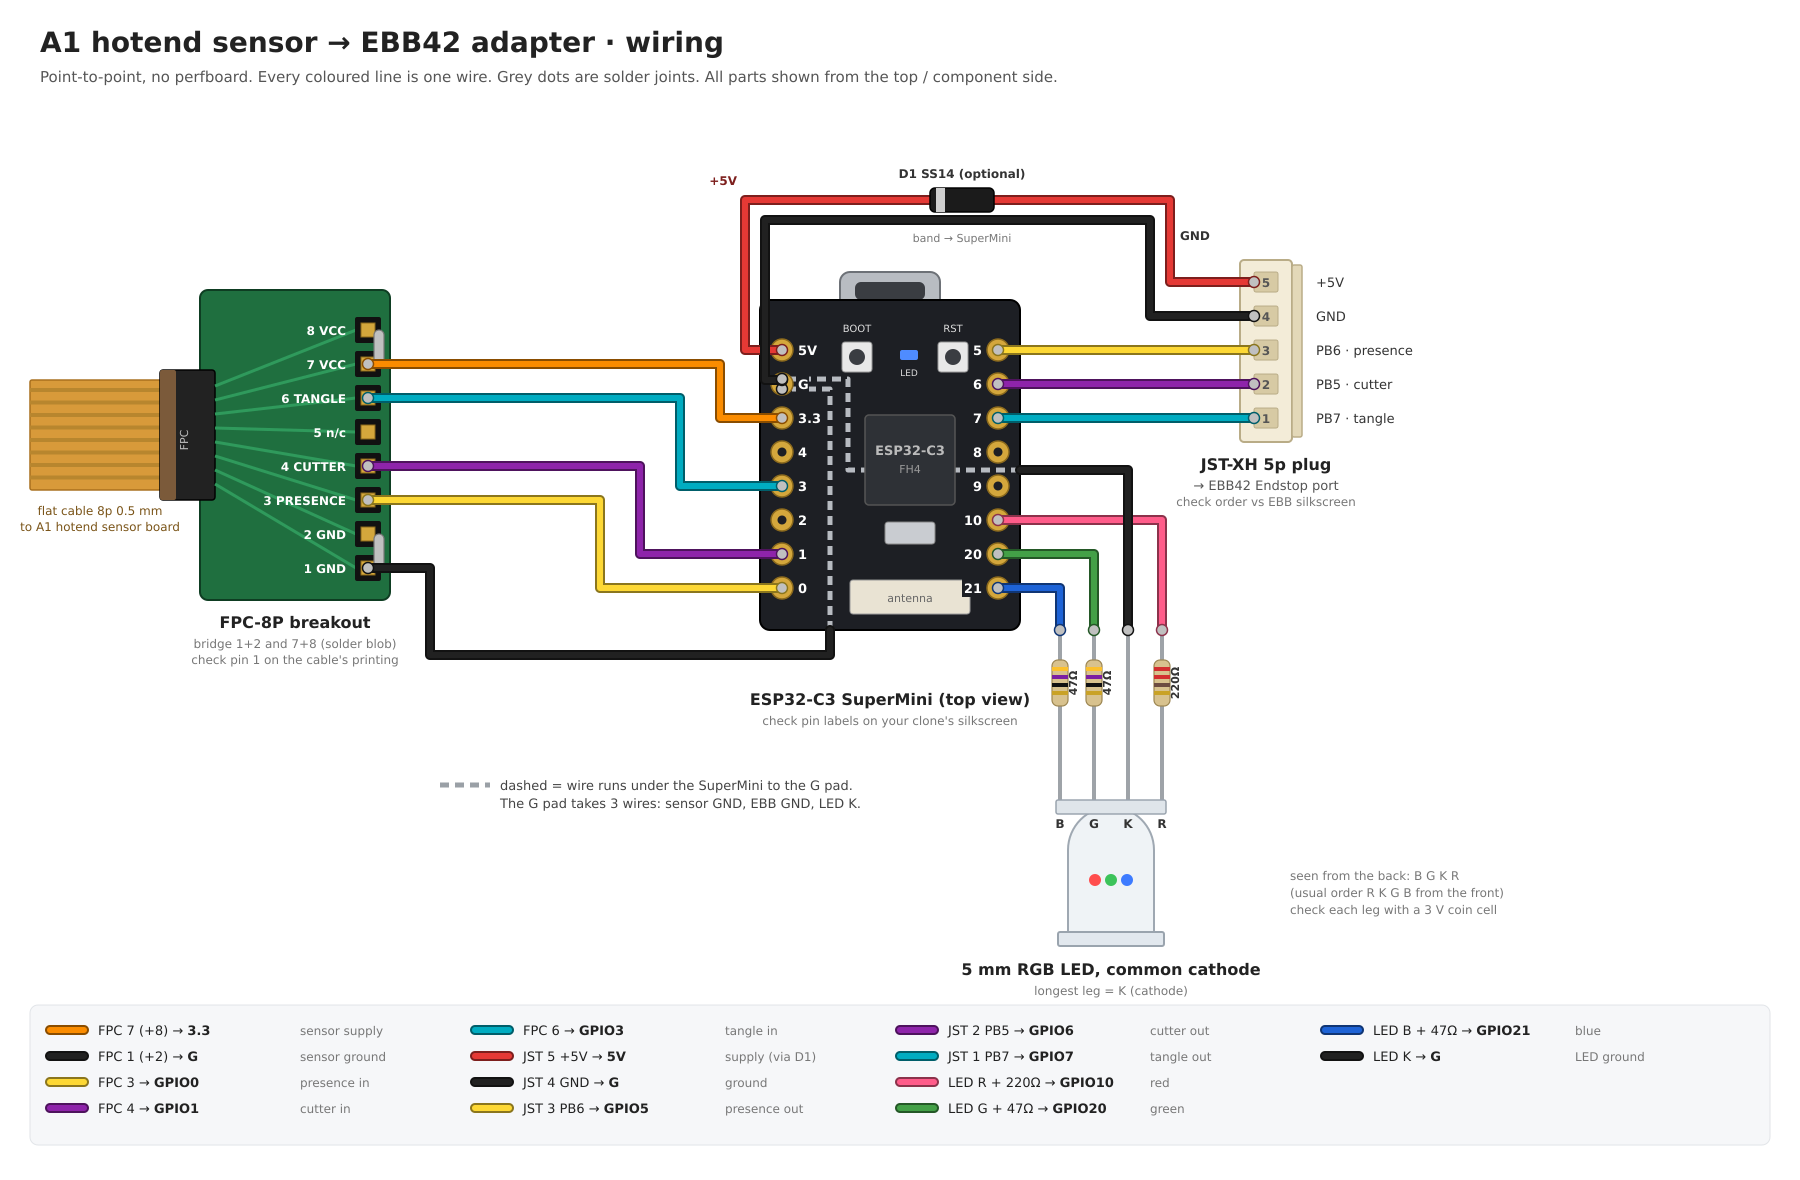
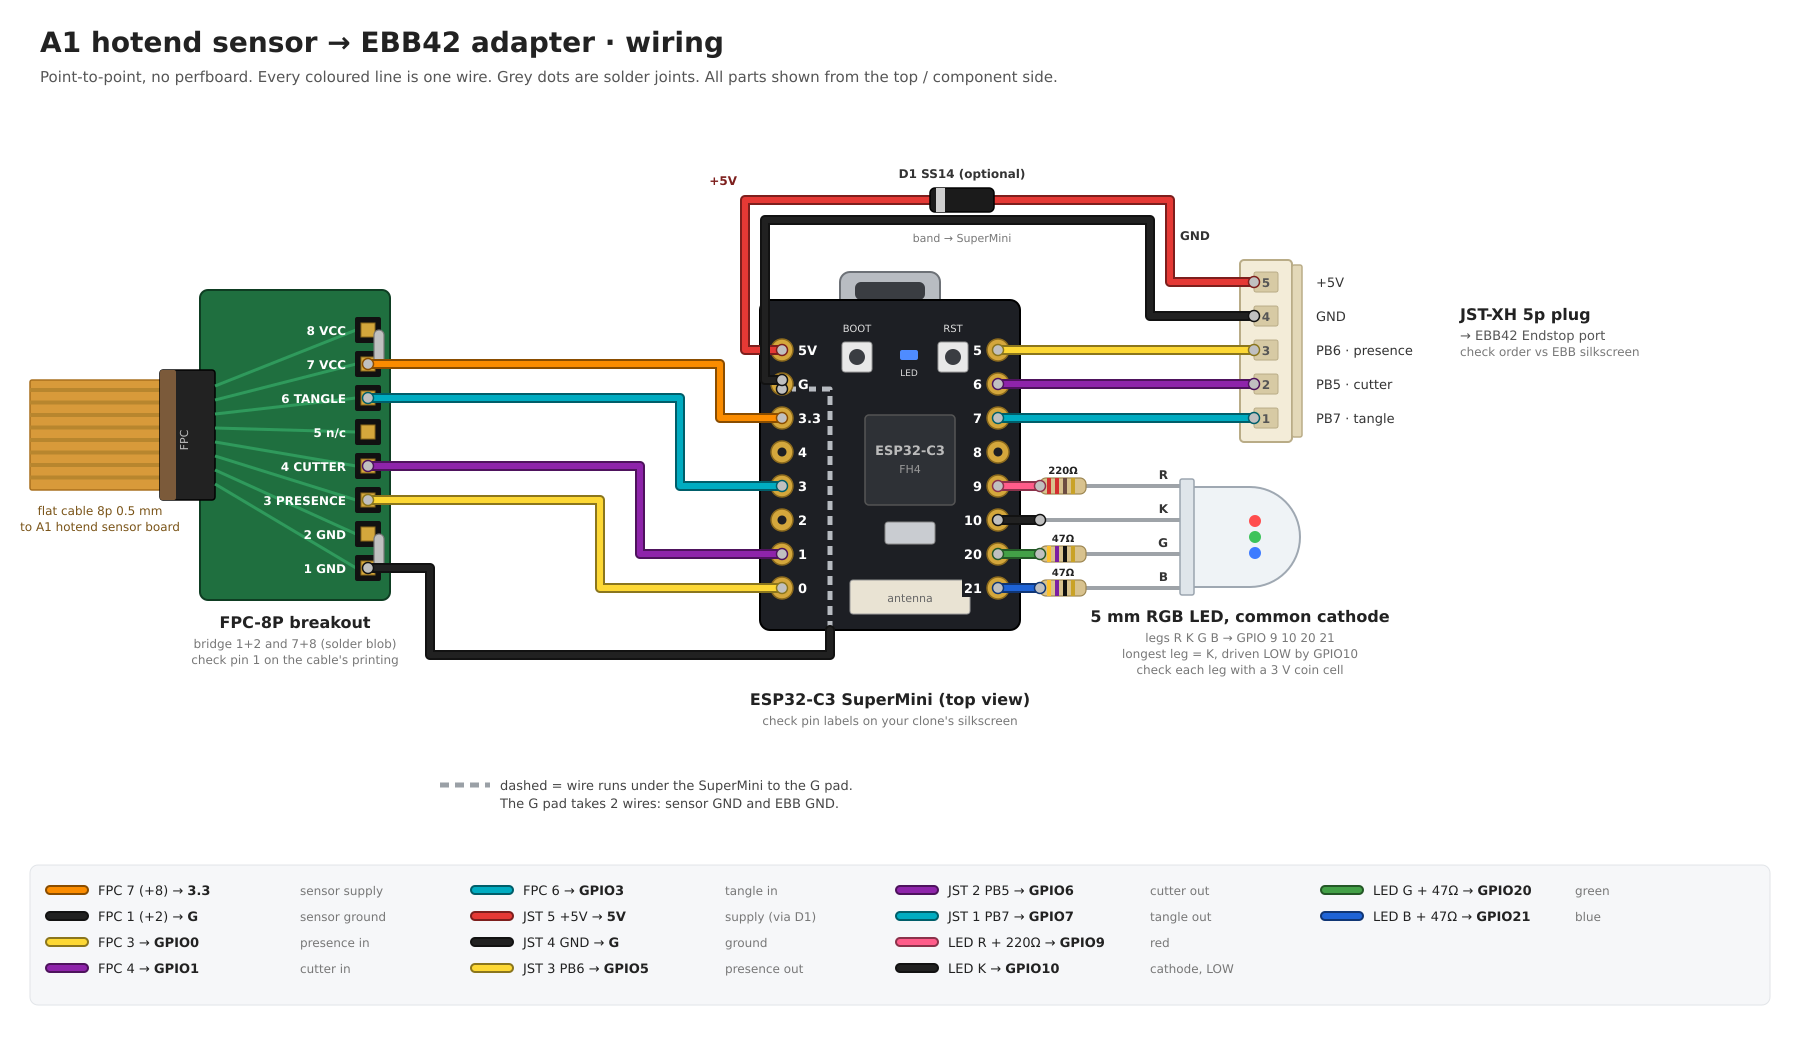
Move status LED to GPIO9/10 so it mounts directly on the header
The RGB LED legs R K G B now line up with GPIO9, GPIO10, GPIO20, GPIO21,
so the LED can sit against the SuperMini with only series resistors.

- GPIO10 is the common cathode, driven LOW after boot at full drive
  strength (it sinks all three colours).
- Red moves to GPIO9 (BOOT strapping pin). Boot is unaffected because
  the cathode floats at reset; drive is limited to ~10 mA so pressing
  BOOT while red is lit is harmless.
- Wiring diagram and adapter README updated; the G pad now takes only
  sensor GND and EBB GND.

diff --git a/adapter/docs/make_wiring.py b/adapter/docs/make_wiring.py
@@ -4,7 +4,7 @@
 """
 from pathlib import Path
 
-W, H = 1800, 1180
+W, H = 1800, 1040
 out = []
 add = out.append
 FONT = "DejaVu Sans, Arial, sans-serif"
@@ -169,47 +169,43 @@ for p, y in jst_y.items():
 jst_lbl = {5: "+5V", 4: "GND", 3: "PB6 · presence", 2: "PB5 · cutter", 1: "PB7 · tangle"}
 for p, y in jst_y.items():
     text(JX + 76, y + 5, jst_lbl[p], 13, "#333")
-text(JX + 26, 470, "JST-XH 5p plug", 16, anchor="middle", weight="bold")
-text(JX + 26, 490, "→ EBB42 Endstop port", 13, "#555", "middle")
-text(JX + 26, 506, "check order vs EBB silkscreen", 12, "#777", "middle")
+text(JX + 220, 320, "JST-XH 5p plug", 16, weight="bold")
+text(JX + 220, 340, "→ EBB42 Endstop port", 13, "#555")
+text(JX + 220, 356, "check order vs EBB silkscreen", 12, "#777")
 
 # ------------------------------------------------- RGB LED + resistors ------
-# legs point up; seen from the flat side so the order left->right is B G K R
-LEDX = {"B": 1060, "G": 1094, "K": 1128, "R": 1162}
-LEG_TOP, LEG_BOT = 630, 800
-for k, x in LEDX.items():
-    top = LEG_TOP
-    add(f'<line x1="{x}" y1="{top}" x2="{x}" y2="{LEG_BOT}" stroke="#9ea3a8" stroke-width="4"/>')
-# body
-add(f'<path d="M 1068 940 L 1068 850 A 43 43 0 0 1 1154 850 L 1154 940 Z" '
+# The LED sits right against the SuperMini's right header, legs pointing left:
+# R K G B (top to bottom) land on GPIO9, GPIO10, GPIO20, GPIO21.
+LED_ROWS = {"R": 4, "K": 5, "G": 6, "B": 7}
+FLANGE_X = 1180
+RES_X = 1040                                   # resistor body start
+LED_CY = (row(4) + row(7)) / 2
+for k, i in LED_ROWS.items():
+    y = row(i)
+    add(f'<line x1="{RES_X}" y1="{y}" x2="{FLANGE_X}" y2="{y}" stroke="#9ea3a8" stroke-width="4"/>')
+    text(FLANGE_X - 12, y - 7, k, 12, "#333", "end", "bold")
+# body (side view, dome to the right)
+add(f'<path d="M {FLANGE_X + 10} {LED_CY - 50} L {FLANGE_X + 70} {LED_CY - 50} '
+    f'A 50 50 0 0 1 {FLANGE_X + 70} {LED_CY + 50} L {FLANGE_X + 10} {LED_CY + 50} Z" '
     f'fill="#eef2f6" stroke="#9aa4ae" stroke-width="2" opacity="0.95"/>')
-rect(1058, 932, 106, 14, "#e2e8ee", "#9aa4ae", 2, rx=2)
-rect(1056, 800, 110, 14, "#dfe5ea", "#9aa4ae", 1.5, rx=2)
-for c, cx in (("#ff4d4d", 1095), ("#3cc35a", 1111), ("#3d7bff", 1127)):
-    circle(cx, 880, 6, c)
-text(1111, 975, "5 mm RGB LED, common cathode", 16, anchor="middle", weight="bold")
-text(1111, 995, "longest leg = K (cathode)", 12, "#777", "middle")
-text(1290, 880, "seen from the back: B G K R", 12, "#777")
-text(1290, 897, "(usual order R K G B from the front)", 12, "#777")
-text(1290, 914, "check each leg with a 3 V coin cell", 12, "#777")
-for k, x in LEDX.items():
-    text(x, 828 if k != "K" else 828, k, 12, "#333", "middle", "bold")
+rect(FLANGE_X, LED_CY - 58, 14, 116, "#dfe5ea", "#9aa4ae", 1.5, rx=2)
+for c, dy in (("#ff4d4d", -16), ("#3cc35a", 0), ("#3d7bff", 16)):
+    circle(FLANGE_X + 75, LED_CY + dy, 6, c)
+text(FLANGE_X + 60, LED_CY + 85, "5 mm RGB LED, common cathode", 16, anchor="middle", weight="bold")
+text(FLANGE_X + 60, LED_CY + 105, "legs R K G B → GPIO 9 10 20 21", 12, "#777", "middle")
+text(FLANGE_X + 60, LED_CY + 121, "longest leg = K, driven LOW by GPIO10", 12, "#777", "middle")
+text(FLANGE_X + 60, LED_CY + 137, "check each leg with a 3 V coin cell", 12, "#777", "middle")
 
 
-def resistor(x, y_top, bands, label):
-    rect(x - 8, y_top, 16, 46, "#d8c28e", "#9c8550", 1.2, rx=6)
+def resistor_h(x, y, bands, label):
+    rect(x, y - 8, 46, 16, "#d8c28e", "#9c8550", 1.2, rx=6)
     for i, bc in enumerate(bands):
-        rect(x - 8, y_top + 7 + i * 8, 16, 4, bc)
-    lx, ly = x + 17, y_top + 23
-    text(lx, ly, label, 11, "#333", "middle", "bold", f'transform="rotate(-90 {lx} {ly})"')
+        rect(x + 7 + i * 8, y - 8, 4, 16, bc)
 
 
-RES_TOP = 660
 BAND_220 = ["#d32f2f", "#d32f2f", "#6d4c41", "#c9a227"]
 BAND_47 = ["#fbc02d", "#7b1fa2", "#111", "#c9a227"]
-resistor(LEDX["R"], RES_TOP, BAND_220, "220Ω")
-resistor(LEDX["G"], RES_TOP, BAND_47, "47Ω")
-resistor(LEDX["B"], RES_TOP, BAND_47, "47Ω")
+LED_RES = {"R": (BAND_220, "220Ω"), "G": (BAND_47, "47Ω"), "B": (BAND_47, "47Ω")}
 
 # --------------------------------------------------------------- wires ------
 # sensor side (FPC breakout -> SuperMini left column)
@@ -231,12 +227,9 @@ wire("5v", [(JX + 14, jst_y[5]), (1170, jst_y[5]), (1170, 200), (745, 200), (745
 wire("gnd", [(JX + 14, jst_y[4]), (1150, jst_y[4]), (1150, 220), (765, 220), (765, row(1) - 4),
              (LX, row(1) - 4)])
 
-# LED: resistor tops -> GPIO10/20/21, cathode -> G (under the board)
-wire("ledr", [(LEDX["R"], LEG_TOP), (LEDX["R"], row(5)), (RX, row(5))])
-wire("ledg", [(LEDX["G"], LEG_TOP), (LEDX["G"], row(6)), (RX, row(6))])
-wire("ledb", [(LEDX["B"], LEG_TOP), (LEDX["B"], row(7)), (RX, row(7))])
-wire("gnd", [(LEDX["K"], LEG_TOP), (LEDX["K"], 470), (BX + BW, 470), (848, 470), (848, row(1) - 5),
-             (LX, row(1) - 5)], under_from=2)
+# LED: short links from the pads to the resistors (K straight to its leg)
+for k, color in (("R", "ledr"), ("K", "gnd"), ("G", "ledg"), ("B", "ledb")):
+    wire(color, [(RX, row(LED_ROWS[k])), (RES_X, row(LED_ROWS[k]))])
 
 # under-board wires go between the PCB fill and the chip/pads
 mark = len(out)
@@ -245,6 +238,9 @@ seg = out[mark:]
 del out[mark:]
 out[UNDER_MARK:UNDER_MARK] = seg
 draw_wires()
+for k, (bands, label) in LED_RES.items():
+    resistor_h(RES_X, row(LED_ROWS[k]), bands, label)
+    text(RES_X + 23, row(LED_ROWS[k]) - 12, label, 10, "#222", "middle", "bold")
 DX = 930
 rect(DX, 188, 64, 24, "#1b1b1b", "#000", 1.5, rx=5)
 rect(DX + 6, 188, 9, 24, "#cfcfcf")           # cathode band toward the SuperMini
@@ -256,11 +252,11 @@ text(745 - 8, 195 - 10, "+5V", 12, darker(C["5v"]), "end", "bold")
 text(1150 + 30, 240, "GND", 12, "#333", "start", "bold")
 add(f'<line x1="440" y1="785" x2="490" y2="785" stroke="#9aa0a6" stroke-width="5" stroke-dasharray="9 6"/>')
 text(500, 790, "dashed = wire runs under the SuperMini to the G pad.", 13, "#444")
-text(500, 808, "The G pad takes 3 wires: sensor GND, EBB GND, LED K.", 13, "#444")
+text(500, 808, "The G pad takes 2 wires: sensor GND and EBB GND.", 13, "#444")
 draw_joints()
 
 # --------------------------------------------------------- connection table --
-TY = 1035
+TY = 895
 rect(30, TY - 30, W - 60, 140, "#f6f7f9", "#e1e4e8", 1, rx=8)
 rows = [
     ("3v3", "FPC 7 (+8)", "3.3", "sensor supply"),
@@ -273,10 +269,10 @@ rows = [
     ("pres", "JST 3 PB6", "GPIO5", "presence out"),
     ("cut", "JST 2 PB5", "GPIO6", "cutter out"),
     ("tan", "JST 1 PB7", "GPIO7", "tangle out"),
-    ("ledr", "LED R + 220Ω", "GPIO10", "red"),
+    ("ledr", "LED R + 220Ω", "GPIO9", "red"),
+    ("gnd", "LED K", "GPIO10", "cathode, LOW"),
     ("ledg", "LED G + 47Ω", "GPIO20", "green"),
     ("ledb", "LED B + 47Ω", "GPIO21", "blue"),
-    ("gnd", "LED K", "G", "LED ground"),
 ]
 cols, per_col = 4, 4
 cw = (W - 100) / cols

diff --git a/adapter/firmware/src/main.cpp b/adapter/firmware/src/main.cpp
@@ -28,7 +28,14 @@ static const uint8_t ADC_PIN[3] = {0, 1, 3};   // presence, cutter, tangle
 // To EBB42 Endstop connector (P10): GPIO5 -> pin 3 (PB6), GPIO6 -> pin 2 (PB5),
 // GPIO7 -> pin 1 (PB7)
 static const uint8_t OUT_PIN[3] = {5, 6, 7};
-static const uint8_t LED_R = 10, LED_G = 20, LED_B = 21;  // common-cathode RGB
+// Common-cathode RGB LED plugged straight across GPIO9/10/20/21: its legs
+// R K G B line up with those four header pins (resistors in the R, G, B legs).
+// The cathode sits on GPIO10, driven LOW permanently.
+// GPIO9 is the BOOT strapping pin: at reset GPIO10 floats, so no current flows
+// through the red LED and GPIO9 still reads HIGH -> normal boot. GPIO9 also has
+// the BOOT button to GND, so its drive is limited (~10 mA) in case the button
+// is pressed while the pin drives the red LED.
+static const uint8_t LED_R = 9, LED_K = 10, LED_G = 20, LED_B = 21;
 static const uint8_t LED_ONBOARD = 8;                     // blue, active low
 
 enum { CH_PRESENCE = 0, CH_CUTTER, CH_TANGLE, CH_COUNT };
@@ -467,6 +474,9 @@ void setup() {
     pinMode(OUT_PIN[ch], OUTPUT_OPEN_DRAIN);
     digitalWrite(OUT_PIN[ch], HIGH);
   }
+  pinMode(LED_K, OUTPUT);                       // LED common cathode
+  digitalWrite(LED_K, LOW);
+  gpio_set_drive_capability((gpio_num_t)LED_K, GPIO_DRIVE_CAP_3);  // sinks all 3 colours
   pinMode(LED_ONBOARD, OUTPUT);
   digitalWrite(LED_ONBOARD, HIGH);
 
@@ -481,6 +491,8 @@ void setup() {
   }
 
   sampleAll(millis(), true);
+  updateLeds(millis());  // attaches PWM to the LED pins
+  gpio_set_drive_capability((gpio_num_t)LED_R, GPIO_DRIVE_CAP_1);  // see BOOT note above
 }
 
 void loop() {

diff --git a/adapter/README.md b/adapter/README.md
@@ -14,7 +14,7 @@ output polarity over USB, and they are stored in flash.
  │ 3 presence   ├────────►│ GPIO0 (ADC)          GPIO5 (OD) ────────┼──────►│ 3  Stop1 → PB6 │
  │ 4 cutter     ├────────►│ GPIO1 (ADC)          GPIO6 (OD) ────────┼──────►│ 2  Stop2 → PB5 │
  │ 6 tangle     ├────────►│ GPIO3 (ADC)          GPIO7 (OD) ────────┼──────►│ 1  Stop3 → PB7 │
- │ 5 NC         │         │ GPIO10/20/21 ── RGB LED (status)        │       └────────────────┘
+ │ 5 NC         │         │ GPIO9/10/20/21 ── RGB LED (status)      │       └────────────────┘
  └──────────────┘         └─────────────────────────────────────────┘        each input on the EBB:
                                                                              10k pull-up to 3.3 V,
                                                                              1k series to MCU
@@ -106,15 +106,29 @@ needed:
 
 ### Status LED (5 mm RGB, common cathode)
 
-| GPIO | Colour | Series R |
-|:---:|---|:---:|
-| 10 | red | 220 Ω |
-| 20 | green | 47 Ω |
-| 21 | blue | 47 Ω |
+The LED's legs R, K, G, B line up with four neighbouring header pins, so it
+mounts directly against the SuperMini with a resistor in each colour leg:
 
-The common cathode goes to GND. GPIO20 and GPIO21 are the UART0 pins, but they
-are free because the SuperMini logs over native USB. The firmware dims the LED
-with PWM (`bright`). Adjust the resistors if one colour dominates.
+| LED leg | GPIO | Series R | Notes |
+|:---:|:---:|:---:|---|
+| R | 9 | 220 Ω | BOOT strapping pin, drive limited to ~10 mA |
+| K (longest) | 10 | none | common cathode, driven LOW permanently at full drive strength |
+| G | 20 | 47 Ω | |
+| B | 21 | 47 Ω | |
+
+- **Why GPIO9 is safe for red.** GPIO9 must read HIGH at reset for a normal
+  boot. At reset GPIO10 isn't driven, so the cathode floats and no current flows
+  through the red LED. The firmware pulls GPIO10 LOW only after boot.
+- **The BOOT button is on GPIO9.** Pressing it while the firmware drives red
+  shorts GPIO9 to GND. The ~10 mA drive limit keeps that harmless. Holding BOOT
+  during reset still enters download mode as usual.
+- **GPIO10 sinks all three colours,** up to about 30 mA for yellow or magenta.
+  If green or blue looks dim (they have little headroom at 3.3 V), lower their
+  resistors to 22 Ω.
+- **GPIO20 and GPIO21** are the UART0 pins, but they are free because the
+  SuperMini logs over native USB.
+- The firmware dims the LED with PWM (`bright`). Adjust the resistors if one
+  colour dominates.
 
 Highest priority first:
 
